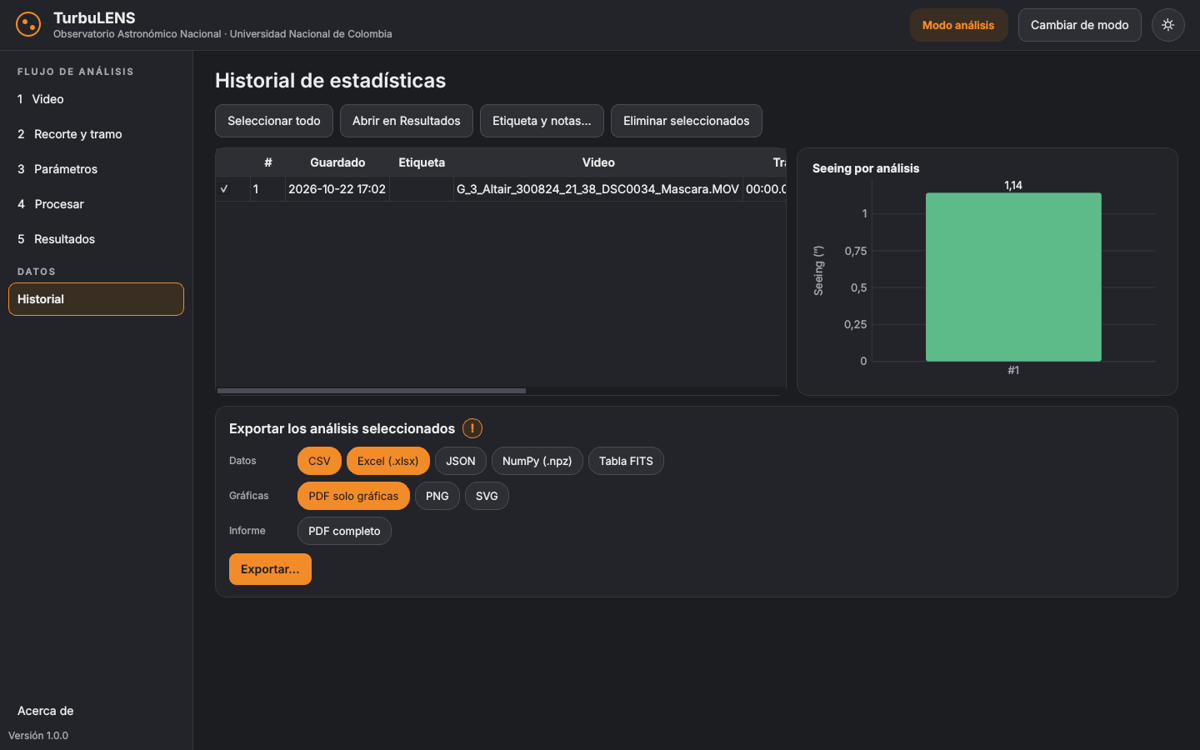
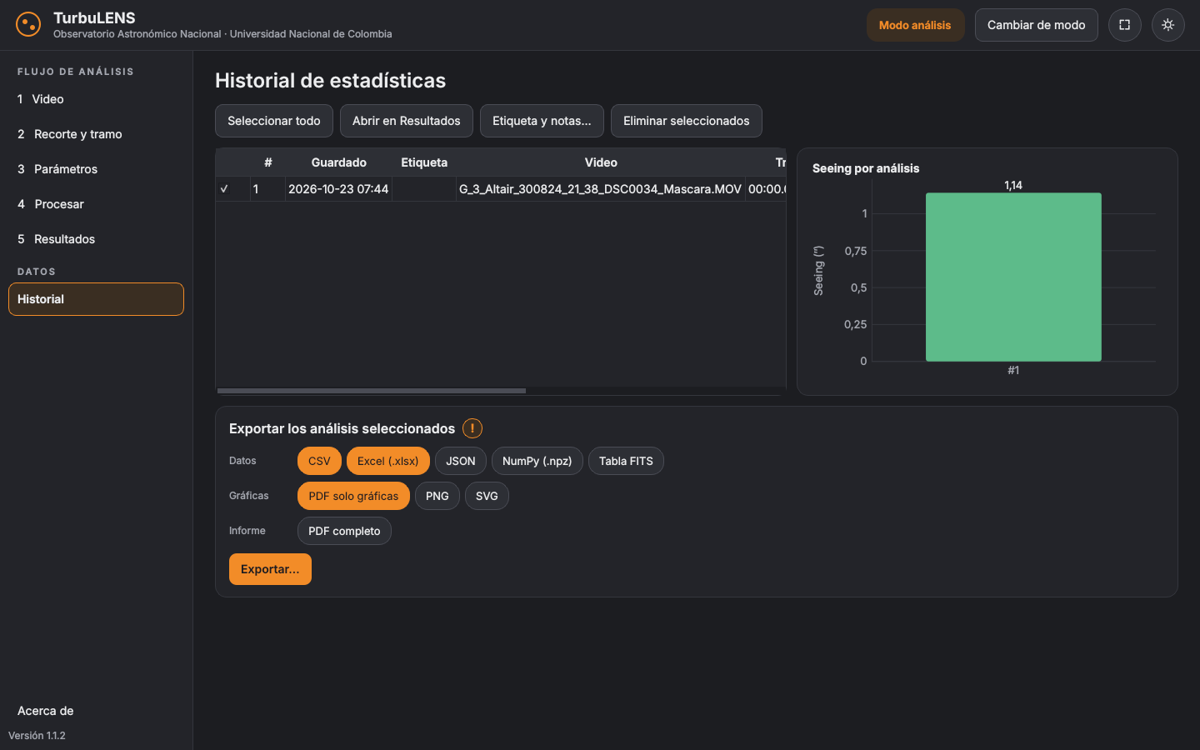
Versiones al día: descargas del README en 1.1.2 y prueba de coherencia
- README: tabla de descargas con la versión actual y enlaces directos.
- scripts/nueva_version.py cambia la versión en todos los archivos a la vez.
- tests/test_version.py falla (y bloquea la publicación) si el README, la
  licencia, la cita, el LEEME, las notas o los metadatos no coinciden con
  turbulens.__version__.
- Capturas de pantalla regeneradas con la versión 1.1.2.

Claude-Session: https://claude.ai/code/session_012LYpTCeo1nsXpESP8gxUqx

diff --git a/scripts/nueva_version.py b/scripts/nueva_version.py
@@ -1,0 +1,52 @@
+# SPDX-License-Identifier: LicenseRef-PolyForm-Noncommercial-1.0.0
+# Copyright (c) 2026 Diego Fernando Cagua Lozada y Fredy Esteban Cruz Ospina — TurbuLENS (https://github.com/DiegoCagua/TurbuLENS)
+"""Cambia la versión de TurbuLENS en todos los archivos a la vez.
+
+Uso:  python scripts/nueva_version.py 1.2.0
+
+Después hay que escribir las novedades en ``packaging/NOTAS_VERSION.md`` (la
+tabla de descargas y la cita se actualizan solas), correr ``python -m pytest``
+y hacer push a ``main``: GitHub Actions compila, prueba y publica la versión.
+"""
+import re
+import sys
+from pathlib import Path
+
+ROOT = Path(__file__).resolve().parents[1]
+
+
+def actual() -> str:
+    return re.search(r'__version__ = "([^"]+)"', (ROOT / "turbulens/__init__.py").read_text(encoding="utf-8")).group(1)
+
+
+def main():
+    if len(sys.argv) != 2 or not re.fullmatch(r"\d+\.\d+\.\d+", sys.argv[1]):
+        sys.exit(__doc__)
+    old, new = actual(), sys.argv[1]
+    if old == new:
+        sys.exit(f"La versión ya es {new}.")
+    cambios = {
+        "turbulens/__init__.py": [(f'__version__ = "{old}"', f'__version__ = "{new}"')],
+        "pyproject.toml": [(f'version = "{old}"', f'version = "{new}"')],
+        "packaging/turbulens.spec": [(f'"CFBundleShortVersionString": "{old}"', f'"CFBundleShortVersionString": "{new}"')],
+        "CITATION.cff": [(f'version: "{old}"', f'version: "{new}"')],
+        "LICENSE": [(f"(versión {old})", f"(versión {new})")],
+        "packaging/LEEME.txt": [(f"TurbuLENS {old}", f"TurbuLENS {new}"), (f"(versión {old})", f"(versión {new})")],
+        "packaging/NOTAS_VERSION.md": [(f"TurbuLENS {old}", f"TurbuLENS {new}"), (f"v{old}-", f"v{new}-"), (f"(versión {old})", f"(versión {new})")],
+        "README.md": [(f"Versión actual: {old}", f"Versión actual: {new}"), (f"v{old}", f"v{new}"),
+                      (f"(versión {old})", f"(versión {new})"), (f"version   = {{{old}}}", f"version   = {{{new}}}")],
+    }
+    for rel, pares in cambios.items():
+        p = ROOT / rel
+        s = p.read_text(encoding="utf-8")
+        for a, b in pares:
+            if a not in s:
+                sys.exit(f"No encontré «{a}» en {rel}: revisa ese archivo a mano.")
+            s = s.replace(a, b)
+        p.write_text(s, encoding="utf-8")
+        print(f"  {rel}")
+    print(f"Versión {old} → {new}. Escribe las novedades en packaging/NOTAS_VERSION.md y corre las pruebas.")
+
+
+if __name__ == "__main__":
+    main()

diff --git a/tests/test_version.py b/tests/test_version.py
@@ -1,0 +1,49 @@
+# SPDX-License-Identifier: LicenseRef-PolyForm-Noncommercial-1.0.0
+# Copyright (c) 2026 Diego Fernando Cagua Lozada y Fredy Esteban Cruz Ospina — TurbuLENS (https://github.com/DiegoCagua/TurbuLENS)
+"""Todo lo que muestra una versión debe mostrar la misma (si no, no se publica)."""
+
+import re
+from pathlib import Path
+
+import turbulens
+
+ROOT = Path(__file__).resolve().parents[1]
+V = turbulens.__version__
+SISTEMAS = ["Windows-x64.zip", "macOS-AppleSilicon.zip", "macOS-Intel.zip", "Linux-x64.tar.gz"]
+
+
+def leer(rel):
+    return (ROOT / rel).read_text(encoding="utf-8")
+
+
+def test_version_bien_formada():
+    assert re.fullmatch(r"\d+\.\d+\.\d+", V)
+
+
+def test_metadatos():
+    assert f'version = "{V}"' in leer("pyproject.toml")
+    assert f'version: "{V}"' in leer("CITATION.cff")
+    assert f'"CFBundleShortVersionString": "{V}"' in leer("packaging/turbulens.spec")
+
+
+def test_cita_en_licencia_leeme_y_readme():
+    for rel in ("LICENSE", "packaging/LEEME.txt", "README.md", "packaging/NOTAS_VERSION.md"):
+        assert f"(versión {V})" in leer(rel), rel
+        otras = set(re.findall(r"\(versión (\d+\.\d+\.\d+)\)", leer(rel))) - {V}
+        assert not otras, f"{rel} cita otra versión: {otras}"
+    assert f"version   = {{{V}}}" in leer("README.md")
+
+
+def test_descargas_del_readme_y_notas():
+    readme = leer("README.md")
+    assert f"Versión actual: {V}" in readme
+    for nota in ("README.md", "packaging/NOTAS_VERSION.md"):
+        txt = leer(nota)
+        for s in SISTEMAS:
+            assert f"TurbuLENS-v{V}-{s}" in txt, f"{nota}: falta TurbuLENS-v{V}-{s}"
+        viejos = set(re.findall(r"TurbuLENS-v(\d+\.\d+\.\d+)-", txt)) - {V}
+        assert not viejos, f"{nota} tiene descargas de otras versiones: {viejos}"
+    for s in SISTEMAS:
+        assert f"releases/download/v{V}/TurbuLENS-v{V}-{s}" in readme
+    assert leer("packaging/NOTAS_VERSION.md").startswith(f"## TurbuLENS {V}")
+    assert leer("packaging/LEEME.txt").startswith(f"TurbuLENS {V}")

diff --git a/README.md b/README.md
@@ -9,14 +9,16 @@ Observatorio Astronómico Nacional · Universidad Nacional de Colombia</p>
 
 ## Descarga
 
-Ve a **[Releases](https://github.com/DiegoCagua/TurbuLENS/releases/latest)** y baja el archivo de tu sistema. Descomprímelo y abre TurbuLENS: **no hay que instalar Python ni nada más**.
+**Versión actual: 1.1.2.** Descarga el archivo de tu sistema, descomprímelo y abre TurbuLENS: **no hay que instalar Python ni nada más**.
 
-| Sistema | Archivo |
-|---|---|
-| Windows 10/11 | `TurbuLENS-v1.0.0-Windows-x64.zip` → `TurbuLENS.exe` |
-| Mac con Apple Silicon | `TurbuLENS-v1.0.0-macOS-AppleSilicon.zip` → `TurbuLENS.app` |
-| Mac con Intel | `TurbuLENS-v1.0.0-macOS-Intel.zip` → `TurbuLENS.app` |
-| Linux | `TurbuLENS-v1.0.0-Linux-x64.tar.gz` → `TurbuLENS` |
+| Sistema | Descarga directa | Se abre con |
+|---|---|---|
+| Windows 10/11 | [TurbuLENS-v1.1.2-Windows-x64.zip](https://github.com/DiegoCagua/TurbuLENS/releases/download/v1.1.2/TurbuLENS-v1.1.2-Windows-x64.zip) | `TurbuLENS.exe` |
+| Mac con Apple Silicon | [TurbuLENS-v1.1.2-macOS-AppleSilicon.zip](https://github.com/DiegoCagua/TurbuLENS/releases/download/v1.1.2/TurbuLENS-v1.1.2-macOS-AppleSilicon.zip) | `TurbuLENS.app` |
+| Mac con Intel | [TurbuLENS-v1.1.2-macOS-Intel.zip](https://github.com/DiegoCagua/TurbuLENS/releases/download/v1.1.2/TurbuLENS-v1.1.2-macOS-Intel.zip) | `TurbuLENS.app` |
+| Linux | [TurbuLENS-v1.1.2-Linux-x64.tar.gz](https://github.com/DiegoCagua/TurbuLENS/releases/download/v1.1.2/TurbuLENS-v1.1.2-Linux-x64.tar.gz) | `TurbuLENS` |
+
+Las notas de cada versión y las versiones anteriores están en **[Releases](https://github.com/DiegoCagua/TurbuLENS/releases)**.
 
 > El programa no está firmado digitalmente. La primera vez, en Windows pulsa *Más información → Ejecutar de todas formas*; en Mac, clic derecho → *Abrir*.
 
